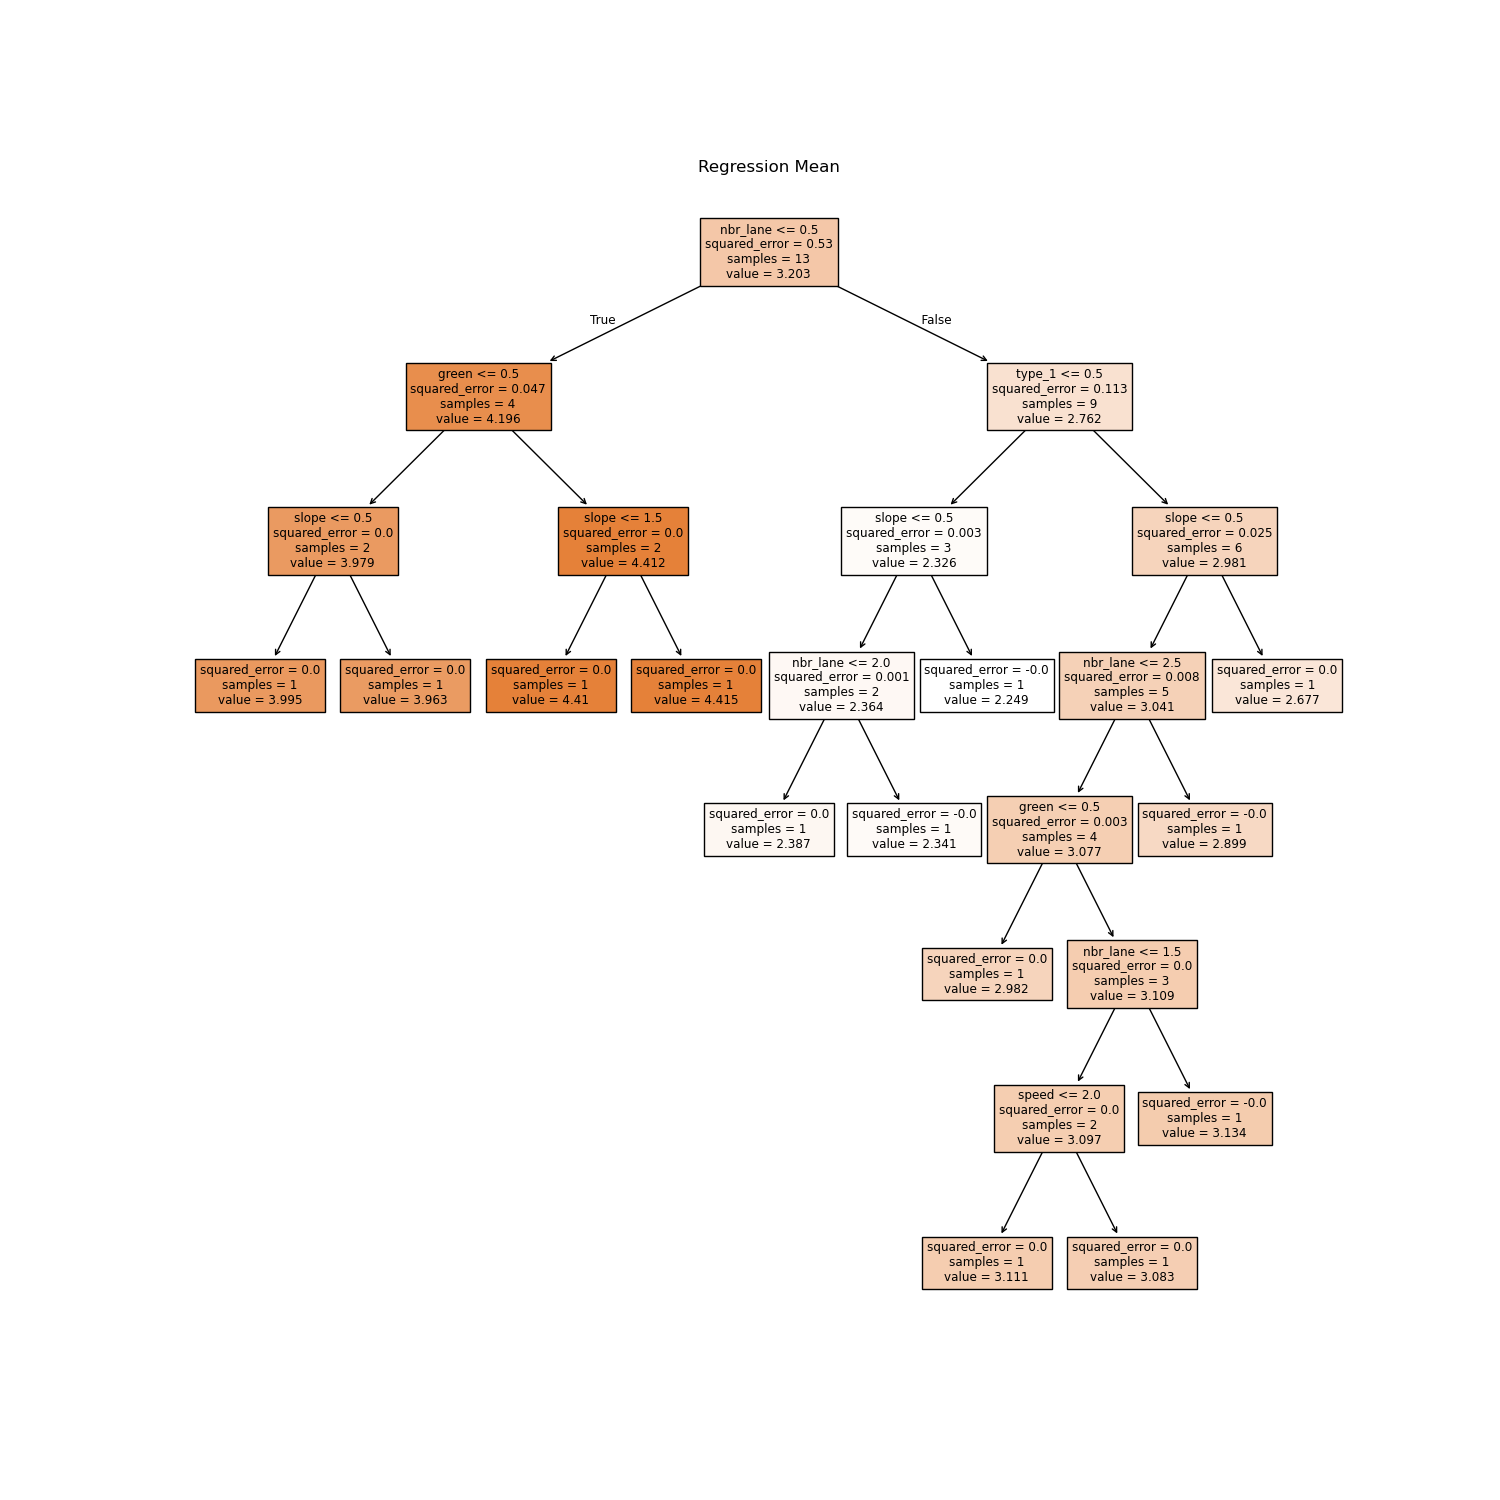
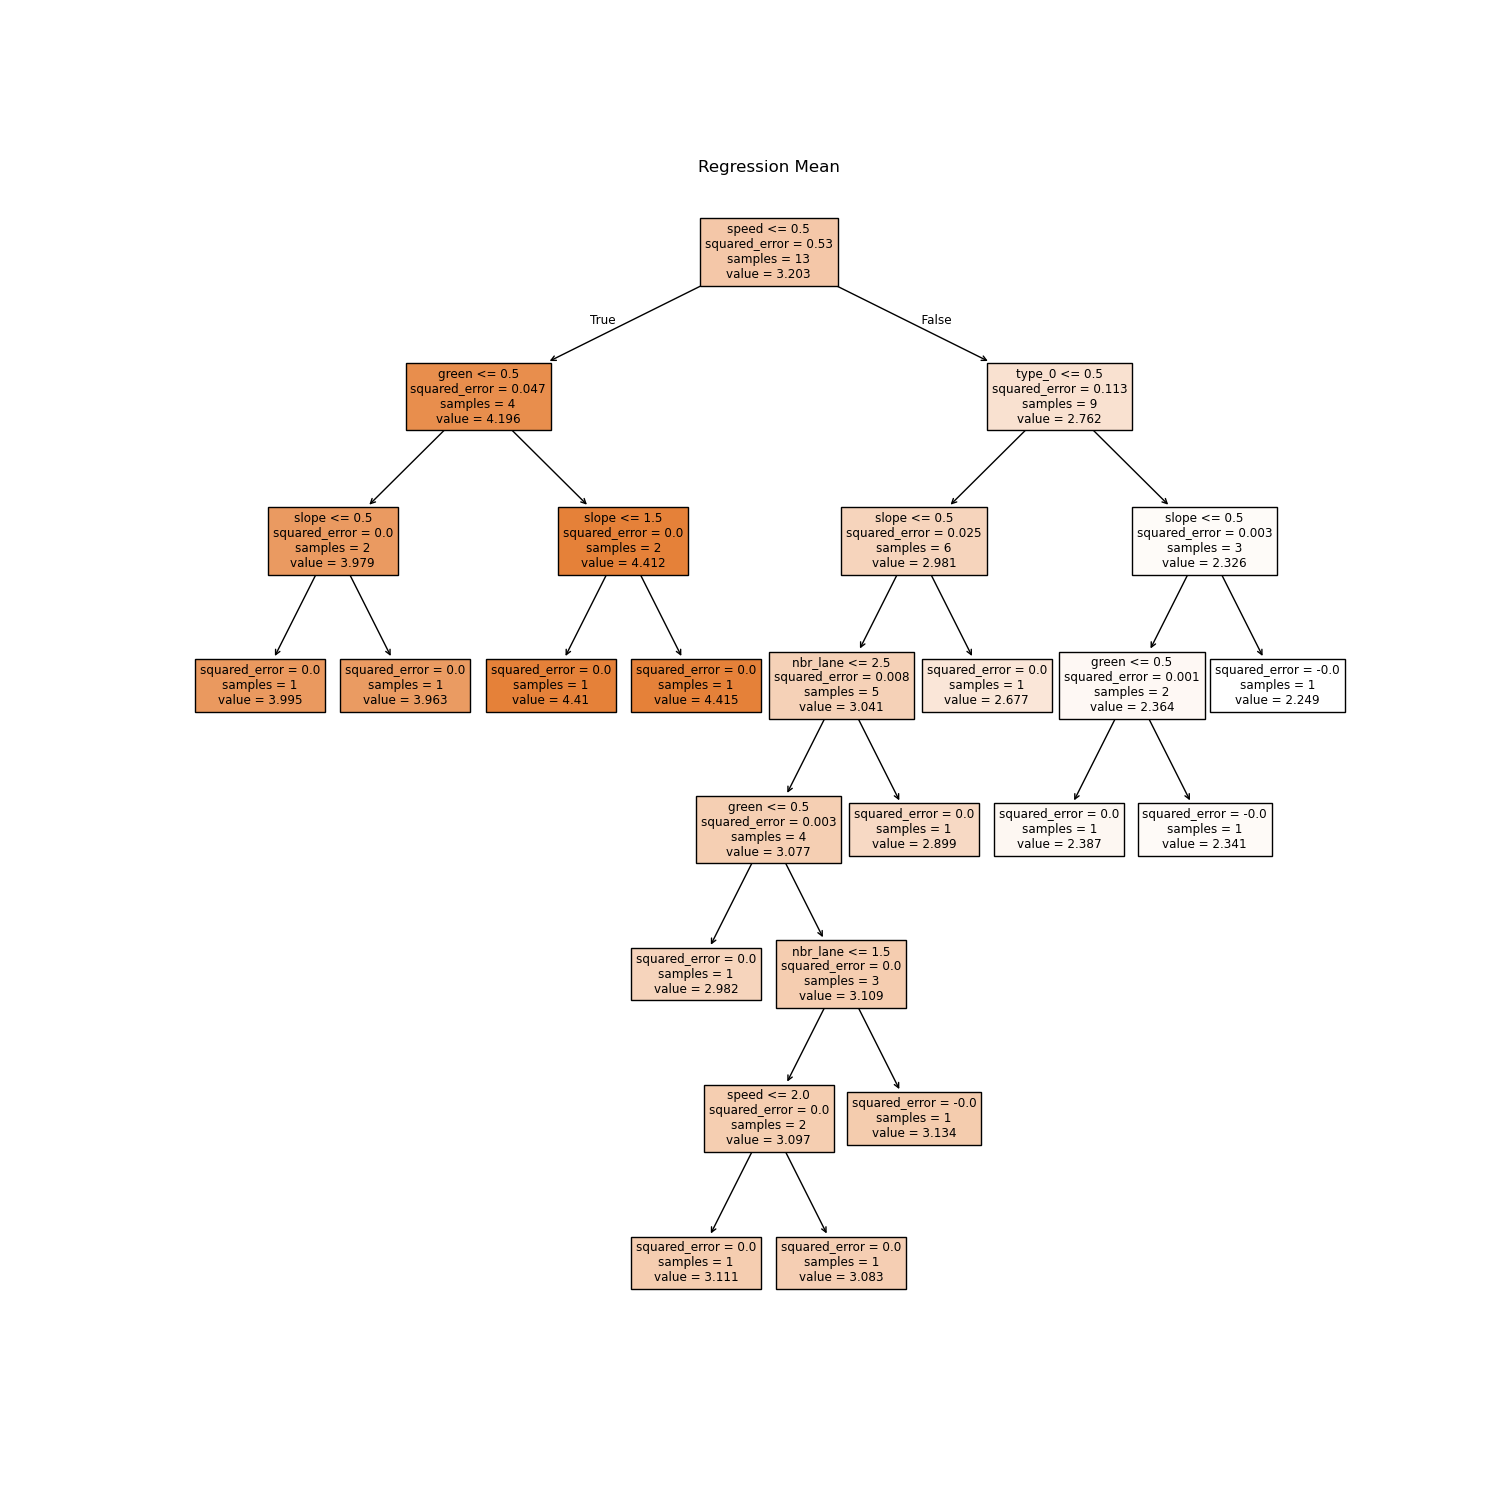
update

diff --git a/script_survey_analysis.py b/script_survey_analysis.py
@@ -62,9 +62,9 @@ def main():
     execute_regression_tree_all(CHEMIN_DATABASE, CHEMIN_PERSONNES, CHEMIN_DATAPHOTO, DOSSIER_IMAGES, test_size = 0.2, random_state = 42, depth = None)
     execute_random_forest(CHEMIN_DATABASE, CHEMIN_PERSONNES, CHEMIN_DATAPHOTO, max_depth = 8, min_samples_leaf=20)
     print("\n=== 6. Ordered Models ===")
-    # execute_ordered_model(CHEMIN_DATABASE, CHEMIN_PERSONNES, CHEMIN_DATAPHOTO, test_size = 0.2, random_state = 42,
-    #                       distr='logit')
-    # execute_ordered_model(CHEMIN_DATABASE, CHEMIN_PERSONNES, CHEMIN_DATAPHOTO, test_size=0.2, random_state=42,
-    #                       distr='probit')
+    execute_ordered_model(CHEMIN_DATABASE, CHEMIN_PERSONNES, CHEMIN_DATAPHOTO, test_size = 0.2, random_state = 42,
+                          distr='logit')
+    execute_ordered_model(CHEMIN_DATABASE, CHEMIN_PERSONNES, CHEMIN_DATAPHOTO, test_size=0.2, random_state=42,
+                          distr='probit')
 if __name__ == "__main__":
     main()

diff --git a/utils_survey_analysis.py b/utils_survey_analysis.py
@@ -191,7 +191,6 @@ def execute_regression_tree_all(CHEMIN_DATABASE, CHEMIN_PERSONNES, CHEMIN_DATAPH
 
 
     print("\nRegression Tree All - Model Results")
-    print("\nRegression All")
     print(f"Train MSE: {mse_all_train}, R²: {r2_all_train}, mae: {mae_all_train}")
     print(f"Test MSE: {mse_all_test}, R²: {r2_all_test}, mae: {mae_all_test}")
     print(f"Depth: {depth_all}")
@@ -264,7 +263,6 @@ def execute_ordered_model(CHEMIN_DATABASE, CHEMIN_PERSONNES, CHEMIN_DATAPHOTO,te
     plt.show(block=False)
     plt.close()
     return model, result
-
 
 def execute_random_forest(CHEMIN_DATABASE, CHEMIN_PERSONNES, CHEMIN_DATAPHOTO, max_depth=8, min_samples_leaf=5):
     X_train, X_test, y_train, y_test = preprocess_data_for_ordered_model(